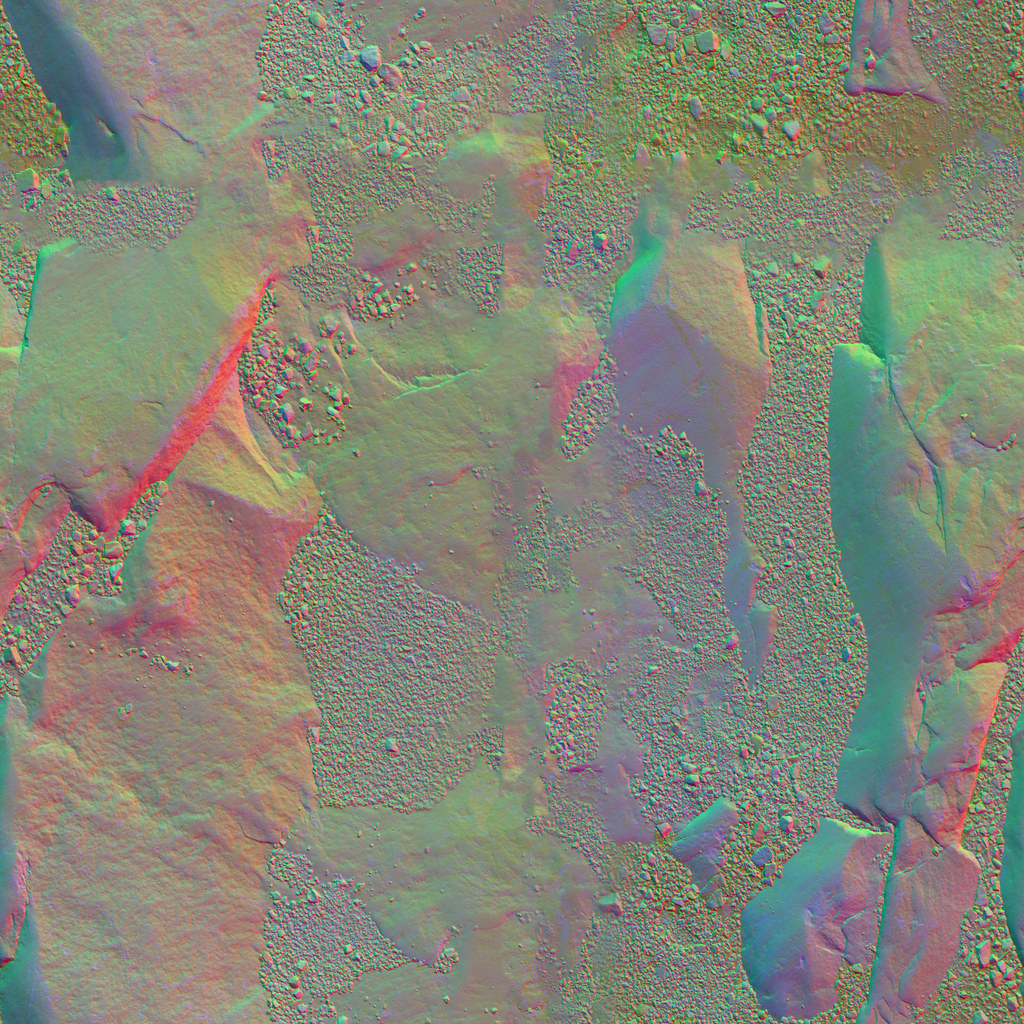
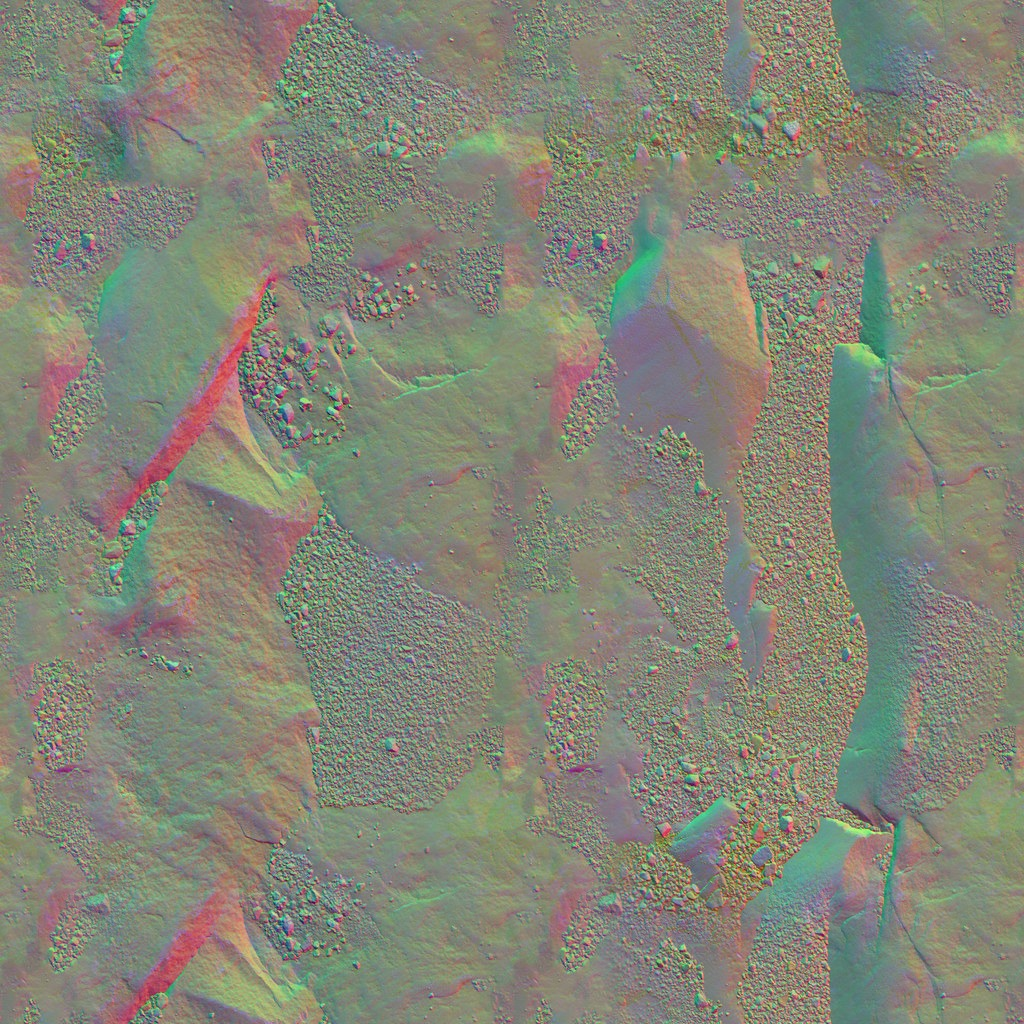
fix(terrain): break up detail texture tiling and heal the slab seams

diff --git a/src/engine/shaders.js b/src/engine/shaders.js
@@ -128,24 +128,41 @@ void main(){
   vec3 toFrag = vW - cameraPosition;
   float fade = 1.0 - smoothstep(uFadeStart, uFadeEnd, length(toFrag));
   vec2 p = vec2(vW.x, -vW.z);
+  float dist = length(toFrag);
   // gravel: 2 m tile, luminance multiplies the HiRISE colour, GL normal map perturbs the DEM normal
   vec3 gv = texture2D(tGravel, p*0.5).rgb;
   float gm = clamp(gv.b*gv.b/0.165, 0.55, 1.5);
-  float dist = length(toFrag);
-  // fine tile only close up; a second, 16 m-wide octave hides the repetition further out
-  vec3 gv2 = texture2D(tGravel, p*0.061).rgb;
-  float gm2 = clamp(gv2.b*gv2.b/0.165, 0.7, 1.35);
-  alb *= mix(1.0, gm, 1.0 - smoothstep(12.0, 55.0, dist)) * mix(1.0, gm2, 0.6*(1.0 - smoothstep(60.0, 260.0, dist)));
+  // fine tile only close up. Further out, two more reads of the same texture break up the brightness: each is rotated
+  // (0.83 and -1.91 rad), offset and scaled to a period that is not a multiple of 2 m (13.7 and 29.3 m), so their average
+  // never lines up into a grid. The weight drops past 60 m, where one scaled-up copy drew a quilt (#193).
+  const mat2 RG1 = mat2(0.6749, 0.7379, -0.7379, 0.6749), RG2 = mat2(-0.3327, -0.9430, 0.9430, -0.3327);
+  float b2 = 0.5*(texture2D(tGravel, RG1*p*0.073 + vec2(0.37, 0.71)).b + texture2D(tGravel, RG2*p*0.0341 + vec2(0.19, 0.53)).b);
+  float gm2 = clamp(1.0 + 1.4*(b2*b2/0.165 - 1.0), 0.7, 1.35);   // 1.4 restores the contrast lost by averaging two reads
+  float wFar = mix(0.55, 0.2, smoothstep(60.0, 140.0, dist)) * (1.0 - smoothstep(140.0, 260.0, dist));
+  alb *= mix(1.0, gm, 1.0 - smoothstep(12.0, 55.0, dist)) * mix(1.0, gm2, wFar);
   vec2 dn = (gv.rg*2.0-1.0) * fade;
-  // outcrop slabs where the HiRISE-derived mask says so (texture rotated 0.7 rad like in Blender)
+  // outcrop slabs where the HiRISE-derived mask says so, with stochastic tiling (after Quilez, "texture repetition"): a 9 m
+  // noise picks two neighbouring variants of slab_nl.jpg, each with its own rotation and offset, and blends them, so the
+  // tile never lines up into rows or a grid (#193). Variant k is rotated 0.7 + 2.4 k rad (0.7 rad is the Blender rotation).
+  // Ground without outcrop skips both reads. Gradients come from outside the branch, where derivatives are defined, and are
+  // passed explicitly because the per-variant offset jumps where the variant changes.
+  vec2 gpx = dFdx(p), gpy = dFdy(p);
   float mask = smoothstep(0.05, 0.45, texture2D(tMask, uv).r) * fade;
-  const float cs = 0.7648, sn = 0.6442;
-  vec3 sl = texture2D(tSlab, vec2(cs*p.x - sn*p.y, sn*p.x + cs*p.y)*0.5).rgb;
-  vec3 slabCol = mix(vec3(0.31,0.207,0.12), vec3(0.698,0.537,0.34), smoothstep(0.06, 0.34, sl.b*sl.b));
-  vec2 sN = (sl.rg*2.0-1.0) * 2.2;
-  vec2 sNw = vec2(cs*sN.x + sn*sN.y, -sn*sN.x + cs*sN.y);
-  alb = mix(alb, slabCol, mask);
-  dn = mix(dn, sNw, mask);
+  if(mask > 0.002){
+    float l = wvn(p*0.11 + 3.7)*6.0, ka = floor(l), ws = smoothstep(0.25, 0.75, fract(l));
+    vec2 ca = vec2(cos(0.7 + 2.4*ka), sin(0.7 + 2.4*ka)), cb = vec2(cos(3.1 + 2.4*ka), sin(3.1 + 2.4*ka));
+    mat2 RA = mat2(ca.x, ca.y, -ca.y, ca.x), RB = mat2(cb.x, cb.y, -cb.y, cb.x);
+    vec3 sa = textureGrad(tSlab, RA*p*0.5 + sin(vec2(3.0, 7.0)*ka), RA*gpx*0.5, RA*gpy*0.5).rgb;
+    vec3 sb = textureGrad(tSlab, RB*p*0.5 + sin(vec2(3.0, 7.0)*(ka + 1.0)), RB*gpx*0.5, RB*gpy*0.5).rgb;
+    // past 25 m a 2 m tile repeats every few pixels whatever its content, so the slab contrast fades to the tile mean (0.46)
+    // by 70 m and the far gravel octave, which does not repeat, carries the brightness variation there
+    float sFar = smoothstep(25.0, 70.0, dist);
+    float lb = mix(0.46 + 1.2*(mix(sa.b, sb.b, ws) - 0.46), 0.46 + 0.8*(b2 - 0.40), sFar);   // 1.2 restores the contrast the healed tile lost
+    vec3 slabCol = mix(vec3(0.31,0.207,0.12), vec3(0.698,0.537,0.34), smoothstep(0.06, 0.34, lb*lb));
+    vec2 sNw = mix((sa.rg*2.0-1.0) * RA, (sb.rg*2.0-1.0) * RB, ws) * 2.2 * (1.0 - 0.9*sFar);   // v * R rotates the tangent normal back to world axes
+    alb = mix(alb, slabCol, mask);
+    dn = mix(dn, sNw, mask);
+  }
   vec3 nd = normalize(n + vec3(dn.x, 0.0, -dn.y));
 
   float sun = texture2D(tShadow, uv).r;

diff --git a/scripts/heal-slab-tile.py b/scripts/heal-slab-tile.py
@@ -1,0 +1,82 @@
+#!/usr/bin/env python3
+"""Make public/marswalk/assets/slab_nl.jpg tileable (#193).
+
+The original Poly Haven crop has seams at its edges and a dark band along the top and bottom, which drew a grid of
+pale 2 m squares on the outcrop. This script:
+  1. flattens low-frequency brightness in every channel (96 px wrapped Gaussian),
+  2. cross-fades each axis with a copy shifted by half the tile over the outer 6 to 36 % of the tile, rescaling the
+     blend so two unrelated patches keep their contrast,
+  3. flattens again (128 px) to remove what the blend brought in.
+The channel layout (R,G = GL normal, B = sqrt luminance) and the 1024 px size stay the same.
+
+It reads the original from Git at d972866, so re-running it writes the same file.
+
+Usage (Python 3 with numpy, scipy and Pillow):
+  python3 scripts/heal-slab-tile.py            rewrite the texture
+  python3 scripts/heal-slab-tile.py --measure  print seam and brightness numbers for the original and the committed file
+"""
+import io
+import subprocess
+import sys
+from pathlib import Path
+
+import numpy as np
+from PIL import Image
+from scipy.ndimage import gaussian_filter
+
+ROOT = Path(__file__).resolve().parent.parent
+OUT = ROOT / 'public/marswalk/assets/slab_nl.jpg'
+SOURCE_REV = 'd972866'
+
+
+def original():
+    data = subprocess.run(['git', 'show', f'{SOURCE_REV}:public/marswalk/assets/slab_nl.jpg'], cwd=ROOT, check=True,
+                          capture_output=True).stdout
+    return np.asarray(Image.open(io.BytesIO(data)).convert('RGB')).astype(np.float64)
+
+
+def flatten(a, sigma):
+    out = a.copy()
+    for c in range(3):
+        out[..., c] = a[..., c] - gaussian_filter(a[..., c], sigma, mode='wrap') + a[..., c].mean()
+    return out
+
+
+def heal(a, axis):
+    n = a.shape[axis]
+    shifted = np.roll(a, n // 2, axis=axis)
+    t = np.minimum(np.arange(n), n - 1 - np.arange(n)) / (n / 2)   # 0 at the edges, 1 in the middle
+    w = np.clip((t - 0.06) / 0.30, 0, 1)
+    w = w * w * (3 - 2 * w)
+    w = w[:, None, None] if axis == 0 else w[None, :, None]
+    mean = a.mean(axis=(0, 1))
+    mix = w * (a - mean) + (1 - w) * (shifted - mean)
+    return mix / np.sqrt(w * w + (1 - w) ** 2) + mean
+
+
+def measure(name, a):
+    lum = a[..., 2]
+    edge_x, edge_y = np.abs(lum[:, -1] - lum[:, 0]).mean(), np.abs(lum[-1] - lum[0]).mean()
+    in_x, in_y = np.abs(np.diff(lum, axis=1)).mean(), np.abs(np.diff(lum, axis=0)).mean()
+    s = lum.shape[0] // 4
+    blocks = lum.reshape(4, s, 4, s).mean(axis=(1, 3))
+    print(f'{name}: edge step x {edge_x:.1f} y {edge_y:.1f}, inside x {in_x:.1f} y {in_y:.1f}, '
+          f'4x4 block brightness {blocks.min():.0f} to {blocks.max():.0f}, B std {lum.std():.1f}')
+
+
+def main():
+    src = original()
+    if '--measure' in sys.argv:
+        measure('original', src)
+        measure('committed', np.asarray(Image.open(OUT).convert('RGB')).astype(np.float64))
+        return
+    a = flatten(src, 96)
+    a = heal(a, 1)
+    a = heal(a, 0)
+    a = flatten(a, 128)
+    Image.fromarray(np.clip(np.rint(a), 0, 255).astype(np.uint8)).save(OUT, quality=92, optimize=True)
+    print(f'wrote {OUT.relative_to(ROOT)}')
+
+
+if __name__ == '__main__':
+    main()

diff --git a/docs/marswalk-assets/README.md b/docs/marswalk-assets/README.md
@@ -24,7 +24,7 @@ HiRISE files are stretched 5.4 % east-west (equirectangular, lat_ts = 0); everyt
 | normal_ao.jpg | R,B = world-space normal x,z from the 1 m DEM; G = baked ambient occlusion. |
 | outcrop_mask.jpg | Where light-toned outcrop is (from HiRISE brightness). Drives the slab detail and the Outcrop layer. |
 | outcrop.glb + outcrop_color.jpg, outcrop_nao.jpg (+ _lo versions) | Layered pale outcrop for the Bright Angel stop, 6.7 x 3.4 m, 1.0 m above its ground line: about 60 thin beds, a steep broken face and loose chips. Three detail levels in one file (Outcrop_LOD0 / LOD1 / LOD2: 16k, 4k and 1.8k triangles), 0.96 MB. Hand-made model, see "Layered outcrop" below. |
-| gravel_nl.jpg, slab_nl.jpg | Close-up detail, 2 m tiles. R,G = normal map (GL), B = sqrt(luminance). |
+| gravel_nl.jpg, slab_nl.jpg | Close-up detail, 2 m tiles. R,G = normal map (GL), B = sqrt(luminance). The terrain shader reads gravel at 2 m plus two rotated far octaves (13.7 and 29.3 m), and slab twice (2 m at 0.7 rad, 2.6 m at 2.9 rad), so neither repeats on a grid (#193). slab_nl.jpg was made tileable on 2026-11-14 by scripts/heal-slab-tile.py: each axis cross-faded with a half-offset copy over the outer 6 to 36 % of the tile (contrast kept), and brightness flattened with a 96 px and a 128 px wrapped Gaussian. Edge step went from 11.2 / 16.4 to 8.0 / 10.2 (9.3 / 10.4 inside), 4x4 block brightness from 104-128 to 117-121. |
 | ring_gray.jpg | CTX mosaic for the background, brightness-matched to HiRISE. |
 | rocks.json + rock_*.jpg, namaqualand_*.jpg | 5 rock scans x 3 detail levels (500 / 120 / 28 triangles), normalised to 1 m longest side. |
 | cheyava.json + cheyava_color.jpg, cheyava_nao.jpg | Cheyava Falls rock (10k triangles). nao: R,G = tangent normal, B = AO. |
